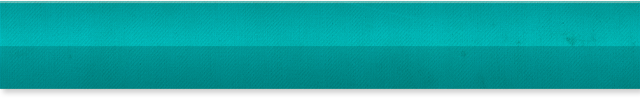
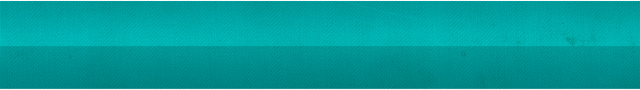
add textured background to the navigation bar

Changed region(s): [[0.0, 0.8889, 1.0, 1.0], [0.0, 0.4667, 1.0, 0.5111], [0.0, 0.0, 1.0, 0.0444]]

diff --git a/Nina/StyleHelper.m b/Nina/StyleHelper.m
@@ -23,6 +23,11 @@
 
 +(void) styleNavigationBar:(UINavigationBar*)navbar{
     navbar.tintColor = [self getTintColour];
+
+    navbar.backgroundColor = [self getTintColour];
+    UIImage *image = [UIImage imageNamed: @"TopBar.png"];
+    //[image drawInRect:CGRectMake(0, 0, navbar.frame.size.width, navbar.frame.size.height)];
+    [navbar setBackgroundImage:image forBarMetrics:UIBarMetricsDefault];
 }
 
 +(void) styleSearchBar:(UISearchBar*)searchBar{
@@ -156,7 +161,7 @@
 }
 
 +(UIColor*) getTintColour{
-    return [UIColor colorWithRed:0/255.0 green:130/255.0 blue:121/255.0 alpha:1.0];
+    return [UIColor colorWithRed:0/255.0 green:151/255.0 blue:150/255.0 alpha:1.0];
 }
 
 +(UIColor*) getPanelColour{

diff --git a/Nina/StyleHelper.h b/Nina/StyleHelper.h
@@ -12,6 +12,7 @@
 @interface StyleHelper : NSObject
 
 +(void) styleNavigationBar:(UINavigationBar*)navbar;
+
 +(void) styleBackgroundView:(UIView*)view;
 +(void) styleSearchBar:(UISearchBar*)searchBar;
 +(void) styleToolBar:(UIToolbar *)toolBar;
